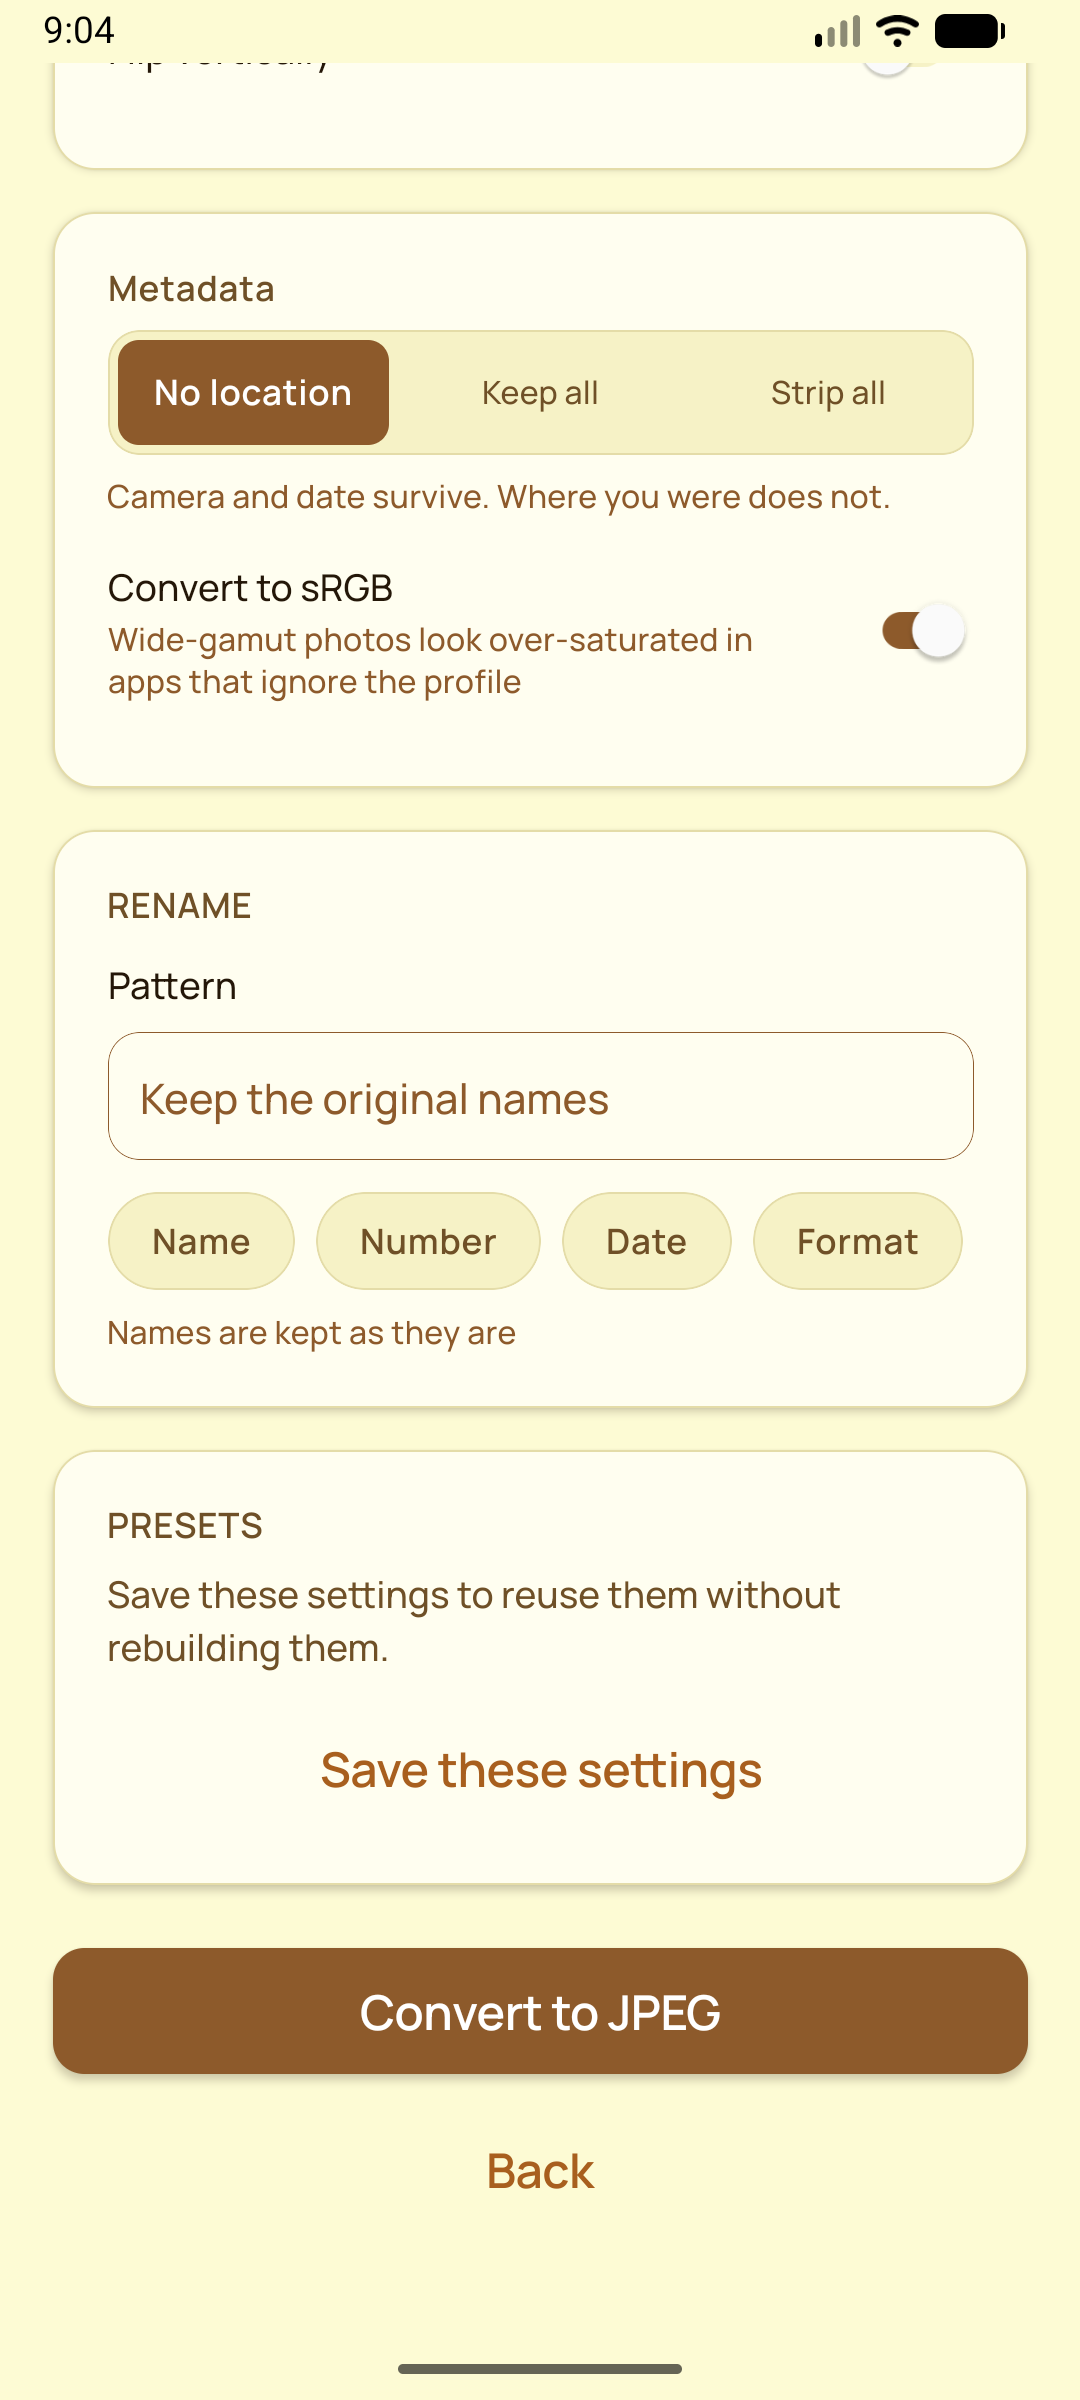
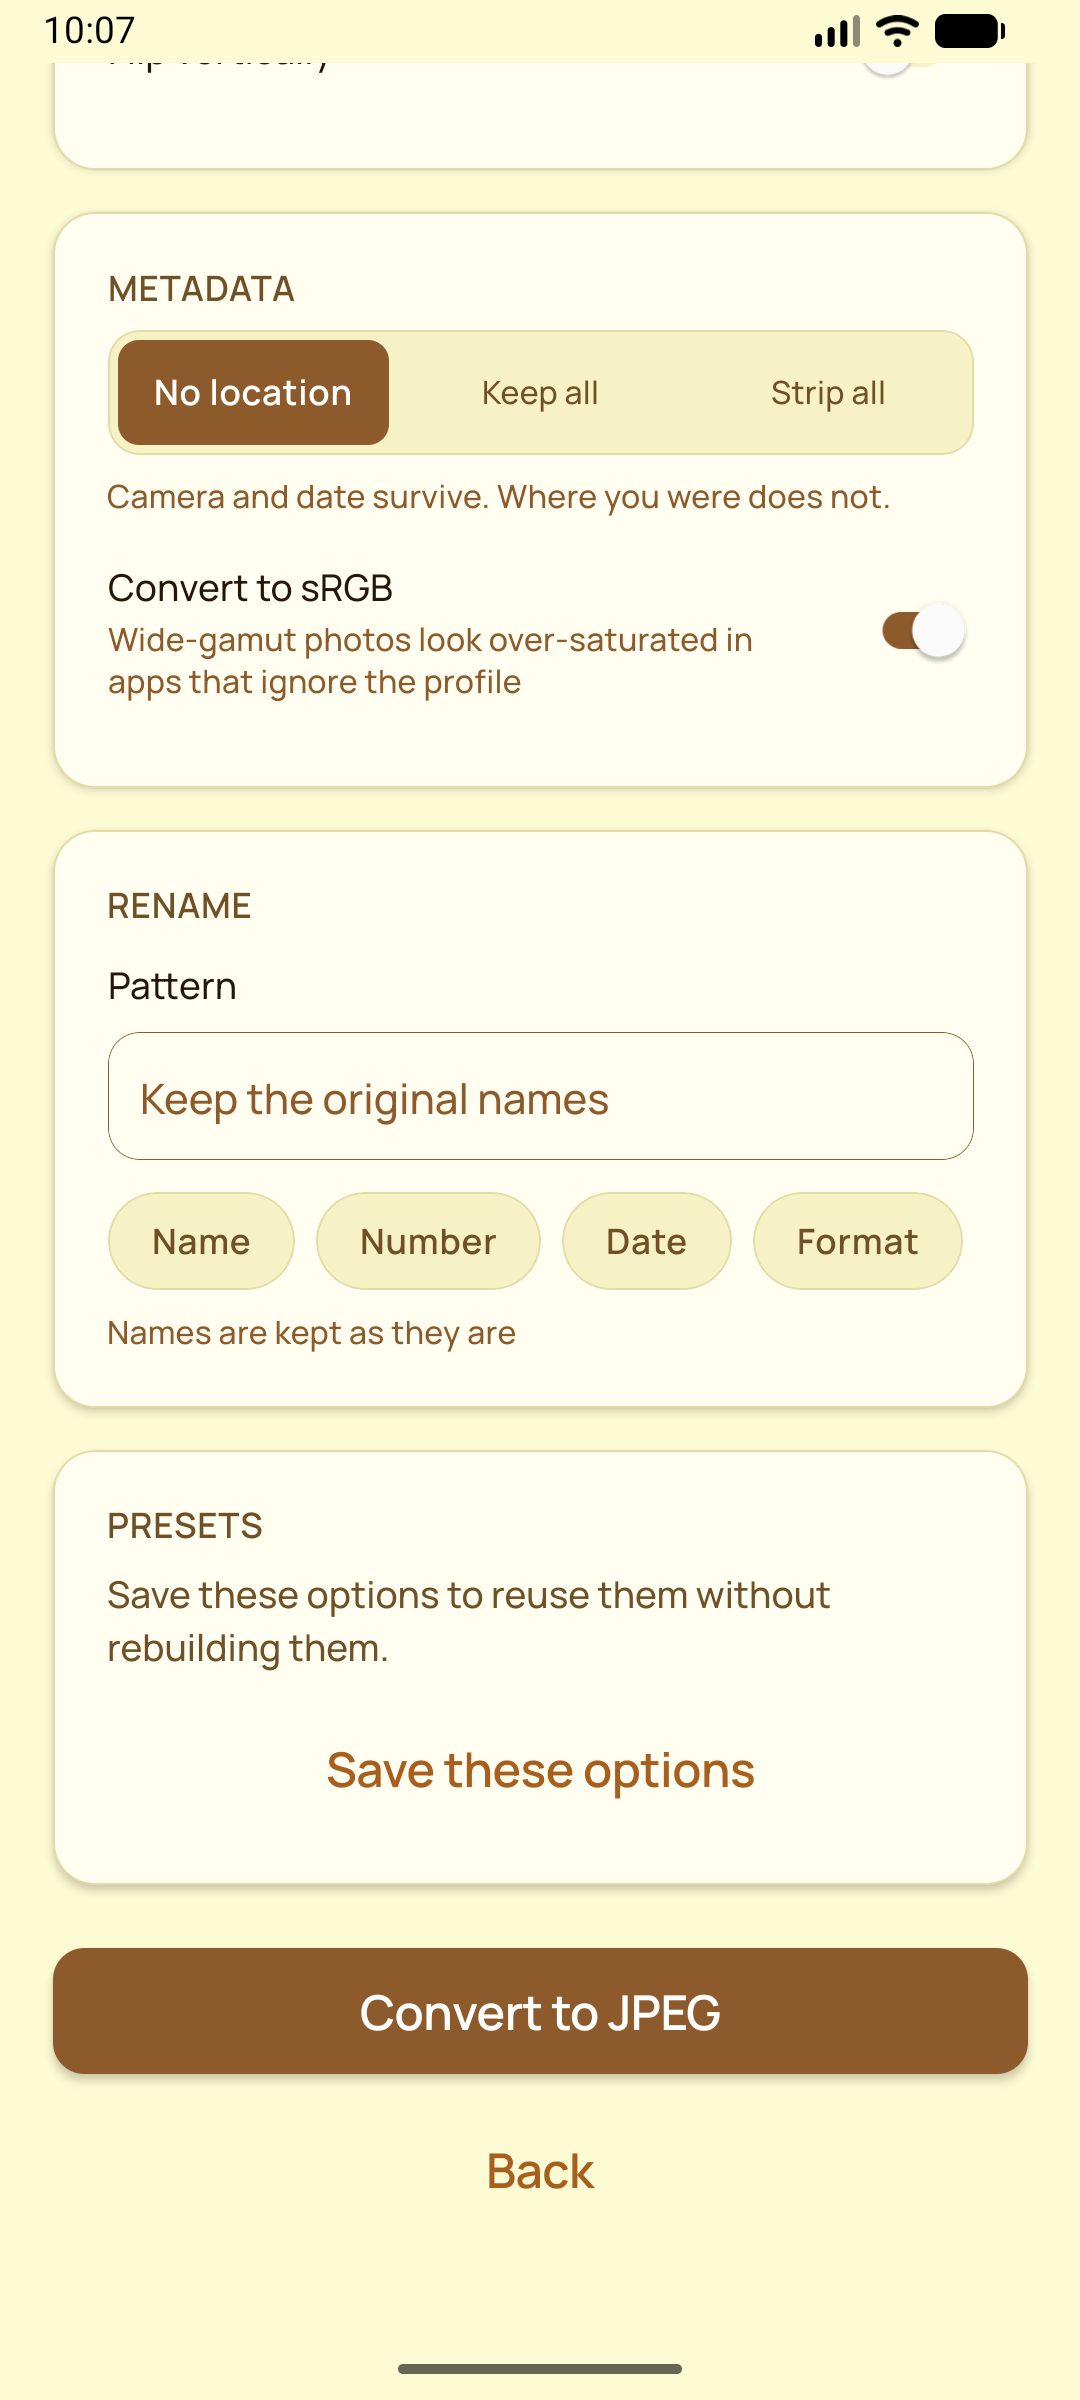
Screenshots, from release builds on both platforms
Thirteen screens captured from the actual release builds rather than mocked up: an iPhone
17 Pro Max simulator at 1320x2868, which is the size the App Store asks for, and an Android
emulator at 1080x2400. They live under store/screenshots, split by platform, and six of
them are in the README.

Taking them was the most productive testing of the session. Four defects turned up that
every one of the 309 tests was blind to, because tests assert behaviour and none of them
assert that a screen looks right: the arrow between the format badges pointed backwards
under Arabic, the batch progress read 100 with no percent sign, the segmented control's
label was the one heading the uppercase change missed, and file sizes rendered as 4.433 MB
where one decimal was asked for. The last of those only exists on device, because Hermes
ignores an Intl option that Node honours.

Two of the six are chosen for what they admit rather than what they show. The result card
says the files got larger, which is what happens when flat artwork is re-encoded as JPEG,
and a converter that reports 0% saved in that case is lying about the one number it exists
to report. The Arabic screen is a real right-to-left layout rather than English with the
strings swapped, which is the difference the arrow made visible.

The picker in the Android shots is full of synthetic test images, so the store listing
itself will want real photography. The app's own screens are what these are for.

diff --git a/README.md b/README.md
@@ -9,6 +9,30 @@ Licensed under the Apache License, Version 2.0
 
 ---
 
+## Screenshots
+
+| Home | Options | Result |
+|---|---|---|
+| <img src="store/screenshots/ios/01-home.png" width="240" alt="The home grid: one tile per task, each labelled with the formats it converts between."> | <img src="store/screenshots/android/02-options.png" width="240" alt="Options: a measured size estimate, a quality slider, and named size presets."> | <img src="store/screenshots/android/07-result.png" width="240" alt="A finished batch, reporting that the files got larger rather than hiding it."> |
+
+| Appearance | Dark | Arabic |
+|---|---|---|
+| <img src="store/screenshots/ios/04-settings.png" width="240" alt="Settings: appearance, why there is no language picker, and who made it."> | <img src="store/screenshots/android/05-settings-dark.png" width="240" alt="The same screen in dark, which applies without a relaunch."> | <img src="store/screenshots/ios/08-home-arabic.png" width="240" alt="The home grid in Arabic, mirrored right to left with the arrows reversed."> |
+
+Captured from release builds on an iPhone 17 Pro Max simulator and a Pixel-class Android
+emulator. The full set, both platforms, is in
+[`store/screenshots`](store/screenshots).
+
+Two of these are doing more work than they look. The result card says **Larger by 55%**
+because that is what happened: flat artwork encodes worse as JPEG than as PNG, and a
+converter that reports 0% saved when a file grew is lying about the one number it exists to
+report. And the Arabic screen is not the English one with the text swapped. The grid runs
+right to left, the format badges trade places, and the arrow points the other way, because
+an arrow that survives a mirror unchanged ends up pointing from the output back at the
+input.
+
+---
+
 ## What makes this different
 
 Every competing converter is either a website that uploads your photos to someone
